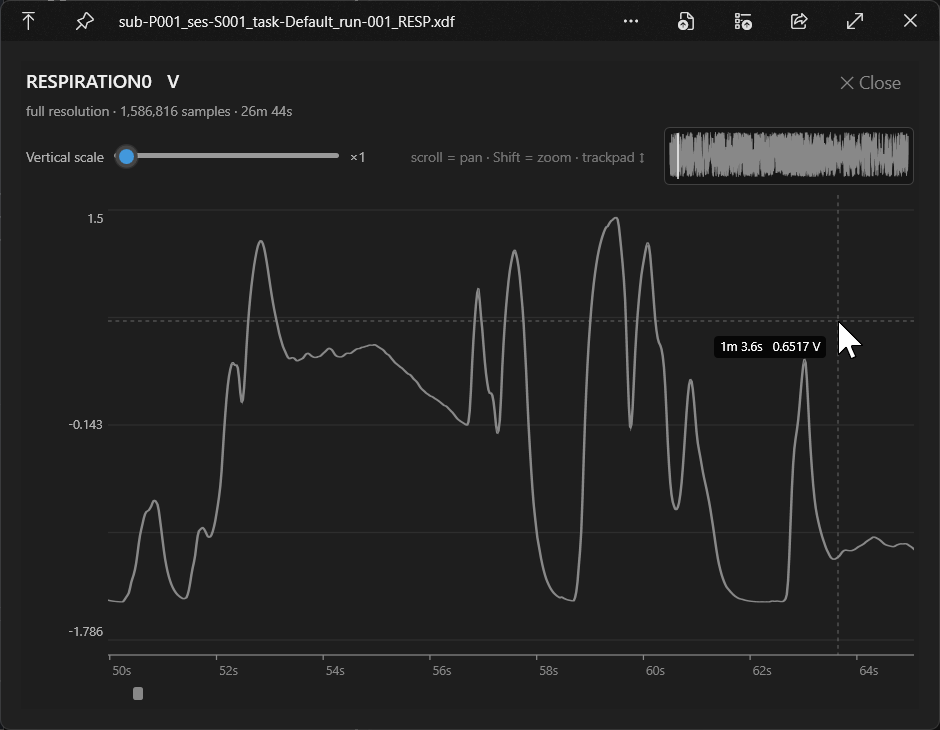
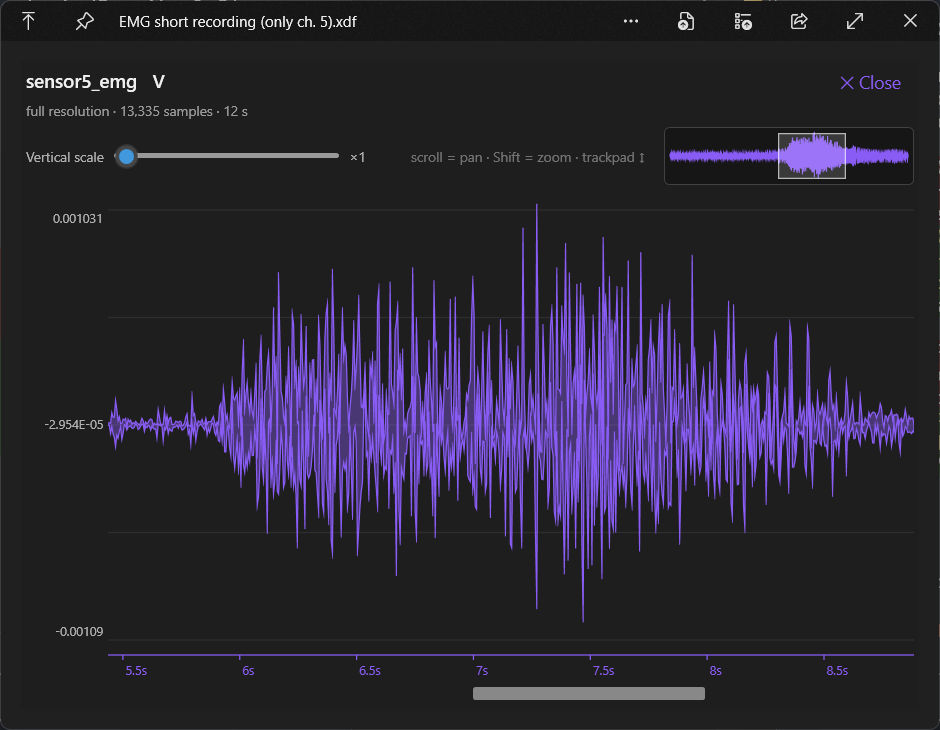
docs: refresh README screenshots for the Purple theme + settings gear
New overview and full-window screenshots reflect the current UI: the
settings gear button, per-stream-type icons, and the Purple waveform
color theme. The full-window shot is now an EMG burst rather than
respiration/gyroscope.

diff --git a/README.md b/README.md
@@ -11,9 +11,9 @@ every stream (EEG, ECG, EMG, respiration, accelerometer, markers, and more),
 plus zoomable per-channel waveforms — without loading the raw sample data up
 front.
 
-![Overview: two streams from a Trigno EMG/IMU recording, with per-channel sparklines, unit labels, and a channel filter box](assets/screenshot-overview.png)
+![Overview: two streams from a Trigno EMG/IMU recording, with per-stream-type icons, per-channel sparklines, unit labels, and a channel filter box, in the Purple waveform color theme](assets/screenshot-overview.png)
 
-![Full-window zoom view of a respiration channel, with a hover crosshair showing time and amplitude, a minimap, and pan/zoom controls](assets/screenshot-fullview.png)
+![Full-window zoom view of an EMG channel showing a muscle-activation burst, with a minimap and pan/zoom controls, in the Purple waveform color theme](assets/screenshot-fullview.png)
 
 ## Features
 
